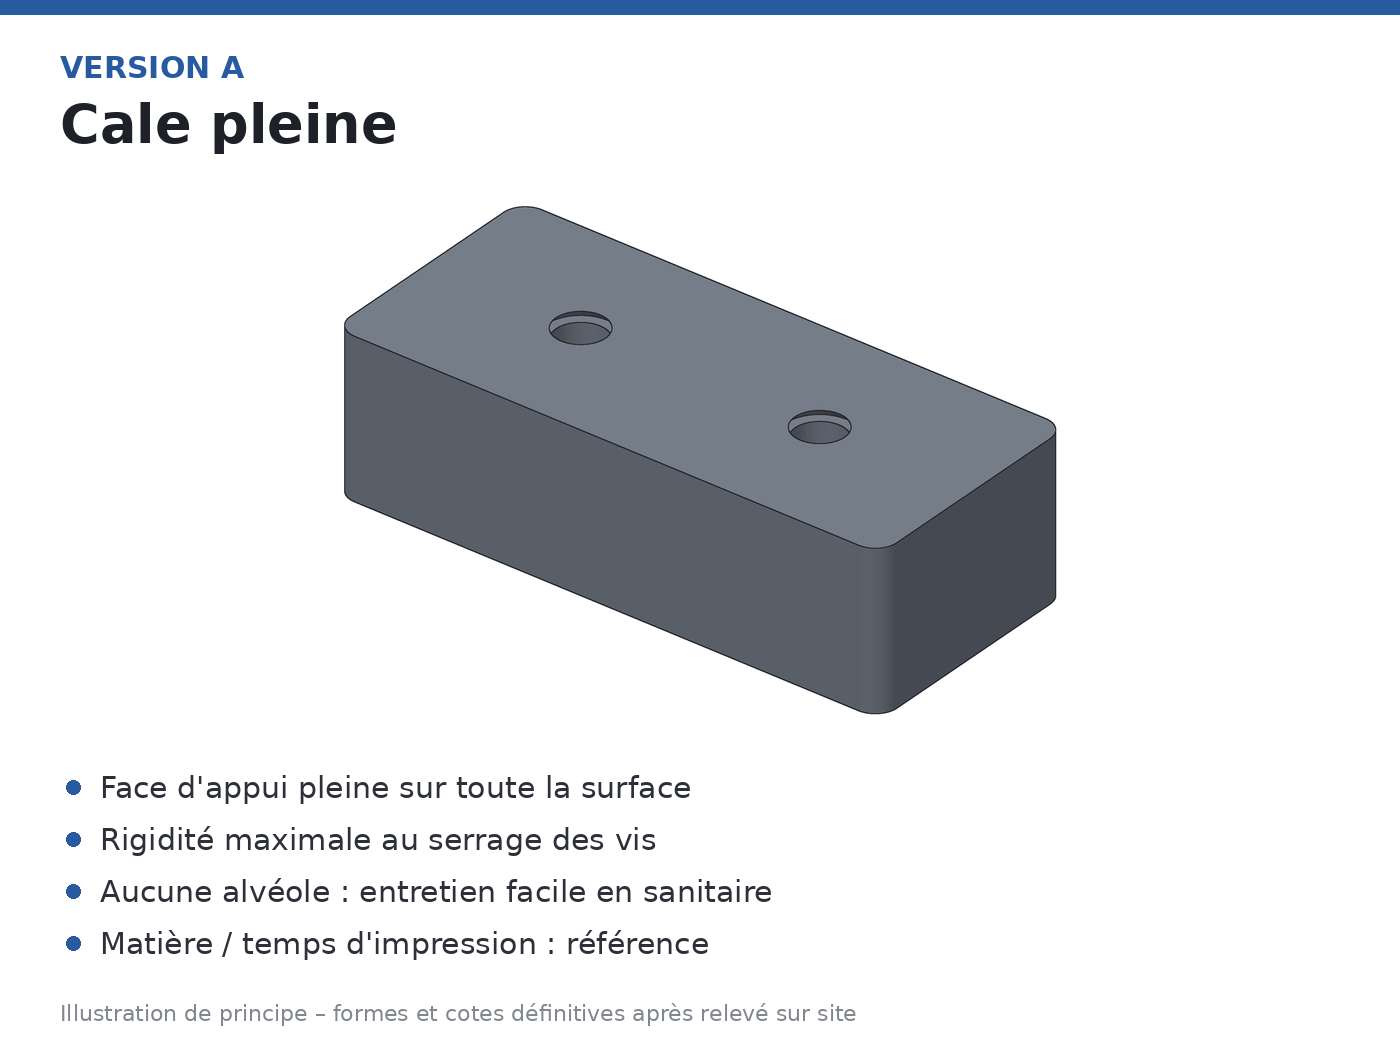
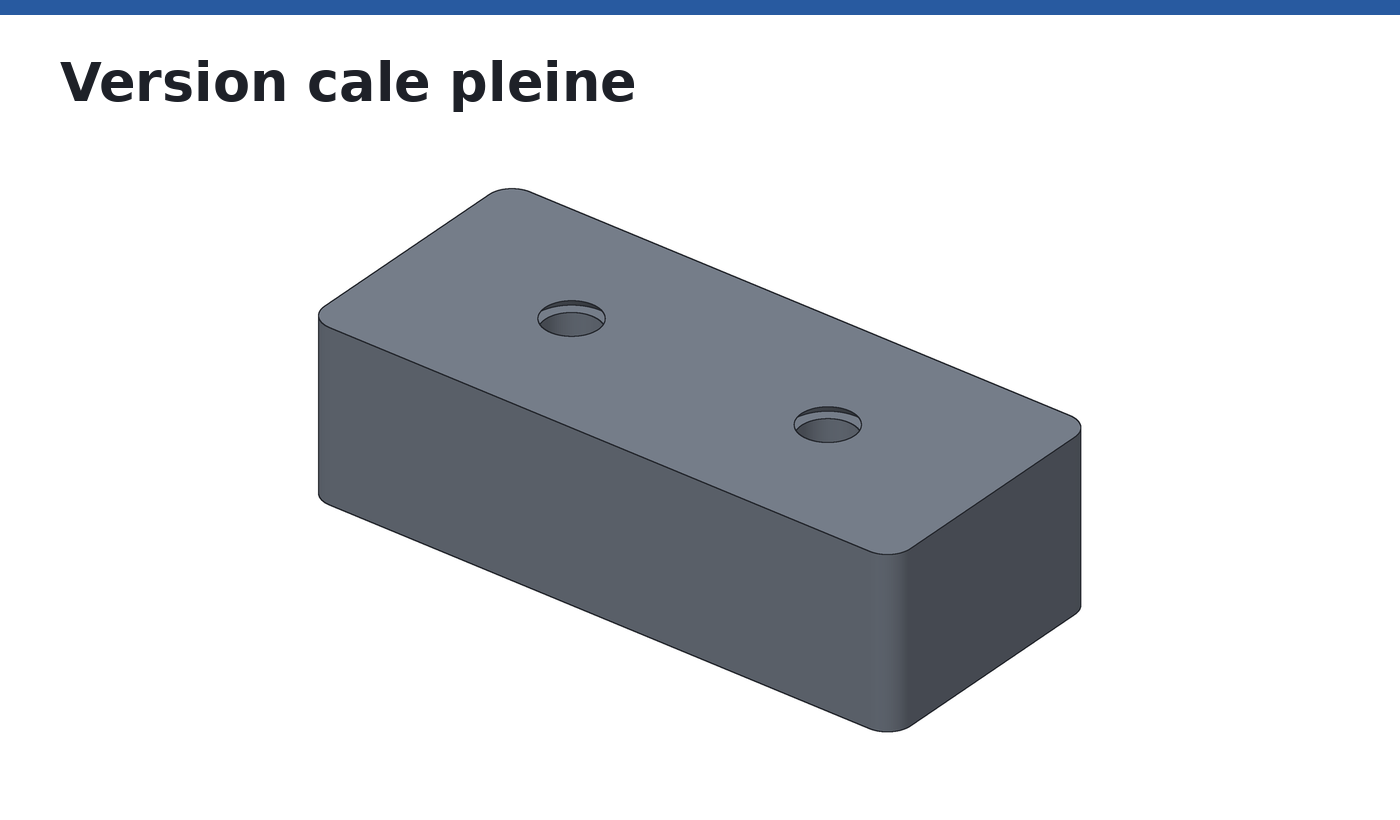
Illustrations cales : retrait des annotations, titres seuls
Claude-Session: https://claude.ai/code/session_01Bc9drBHBczXCqszB6Rf9Ct

Changed region(s): [[0.0307, 0.1829, 0.7986, 0.9146], [0.0, 0.0, 1.0, 0.1524], [0.0307, 0.9451, 0.6143, 0.9756]]

diff --git a/devis/cales-normbau/generer_illustrations.py b/devis/cales-normbau/generer_illustrations.py
@@ -134,7 +134,7 @@ FONT_B = "/usr/share/fonts/truetype/dejavu/DejaVuSans-Bold.ttf"
 FONT = "/usr/share/fonts/truetype/dejavu/DejaVuSans.ttf"
 
 
-def card(man, title, tag, accent, lines, path):
+def card(man, title, accent, path):
     SS = 2
     col, mask, edge = render(man, size=(1500 * SS, 1000 * SS), scale=17.0 * SS)
     part = to_image(col, mask, edge).resize((1500, 1000), Image.LANCZOS)
@@ -143,38 +143,18 @@ def card(man, title, tag, accent, lines, path):
     pad.paste(part, (100, 100))
     part = pad.crop((bbox[0] + 60, bbox[1] + 60, bbox[2] + 140, bbox[3] + 140))
 
-    W_, H_ = 1400, 1050
+    W_, H_ = 1400, 820
     canvas = Image.new("RGB", (W_, H_), (255, 255, 255))
     d = ImageDraw.Draw(canvas)
     d.rectangle((0, 0, W_, 14), fill=accent)
-    d.text((60, 50), tag, font=ImageFont.truetype(FONT_B, 30), fill=accent)
-    d.text((60, 92), title, font=ImageFont.truetype(FONT_B, 54), fill=(30, 33, 40))
-    maxw, maxh = W_ - 120, 560
+    d.text((60, 50), title, font=ImageFont.truetype(FONT_B, 54), fill=(30, 33, 40))
+    maxw, maxh = W_ - 120, 600
     k = min(maxw / part.width, maxh / part.height, 1.0)
     part = part.resize((int(part.width * k), int(part.height * k)), Image.LANCZOS)
-    canvas.paste(part, ((W_ - part.width) // 2, 180 + (maxh - part.height) // 2))
-    y = 770
-    f = ImageFont.truetype(FONT, 30)
-    for ln in lines:
-        d.ellipse((66, y + 10, 80, y + 24), fill=accent)
-        d.text((100, y), ln, font=f, fill=(45, 48, 56))
-        y += 52
-    d.text((60, H_ - 50), "Illustration de principe – formes et cotes définitives après relevé sur site",
-           font=ImageFont.truetype(FONT, 22), fill=(130, 134, 142))
+    canvas.paste(part, ((W_ - part.width) // 2, 160 + (maxh - part.height) // 2))
     canvas.save(path)
 
 
-card(cale_pleine(), "Cale pleine", "VERSION A", (40, 90, 160),
-     ["Face d'appui pleine sur toute la surface",
-      "Rigidité maximale au serrage des vis",
-      "Aucune alvéole : entretien facile en sanitaire",
-      "Matière / temps d'impression : référence"],
-     f"{OUT}/cale_version_A_pleine.png")
-
-card(cale_evidee(), "Cale évidée nervurée", "VERSION B", (200, 110, 30),
-     ["Parois et nervures de renfort, bossages autour des vis",
-      "Pièce plus légère, même encombrement",
-      "Environ 45 % de matière et de temps d'impression en moins",
-      "Alvéoles à placer côté support (non visibles)"],
-     f"{OUT}/cale_version_B_evidee.png")
+card(cale_pleine(), "Version cale pleine", (40, 90, 160), f"{OUT}/cale_version_A_pleine.png")
+card(cale_evidee(), "Version cale évidée nervurée", (200, 110, 30), f"{OUT}/cale_version_B_evidee.png")
 print("ok")
